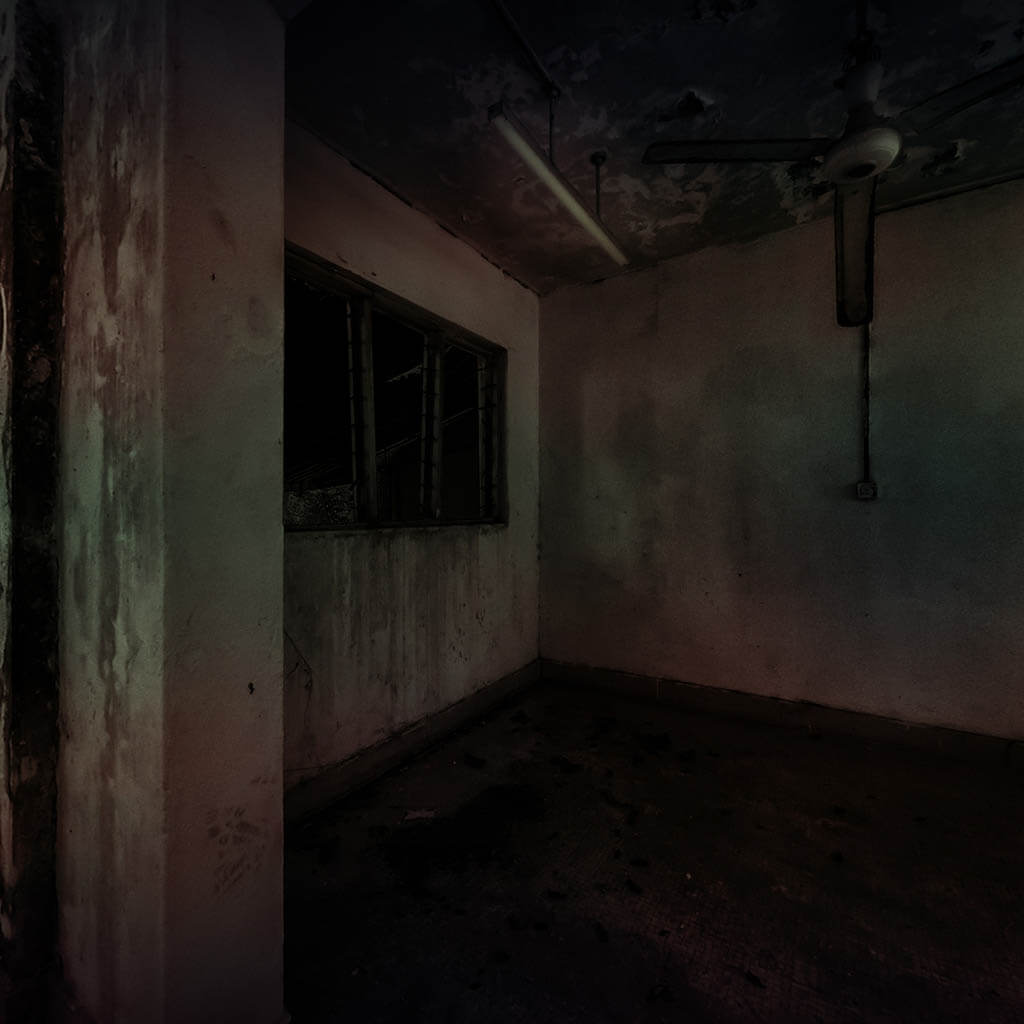
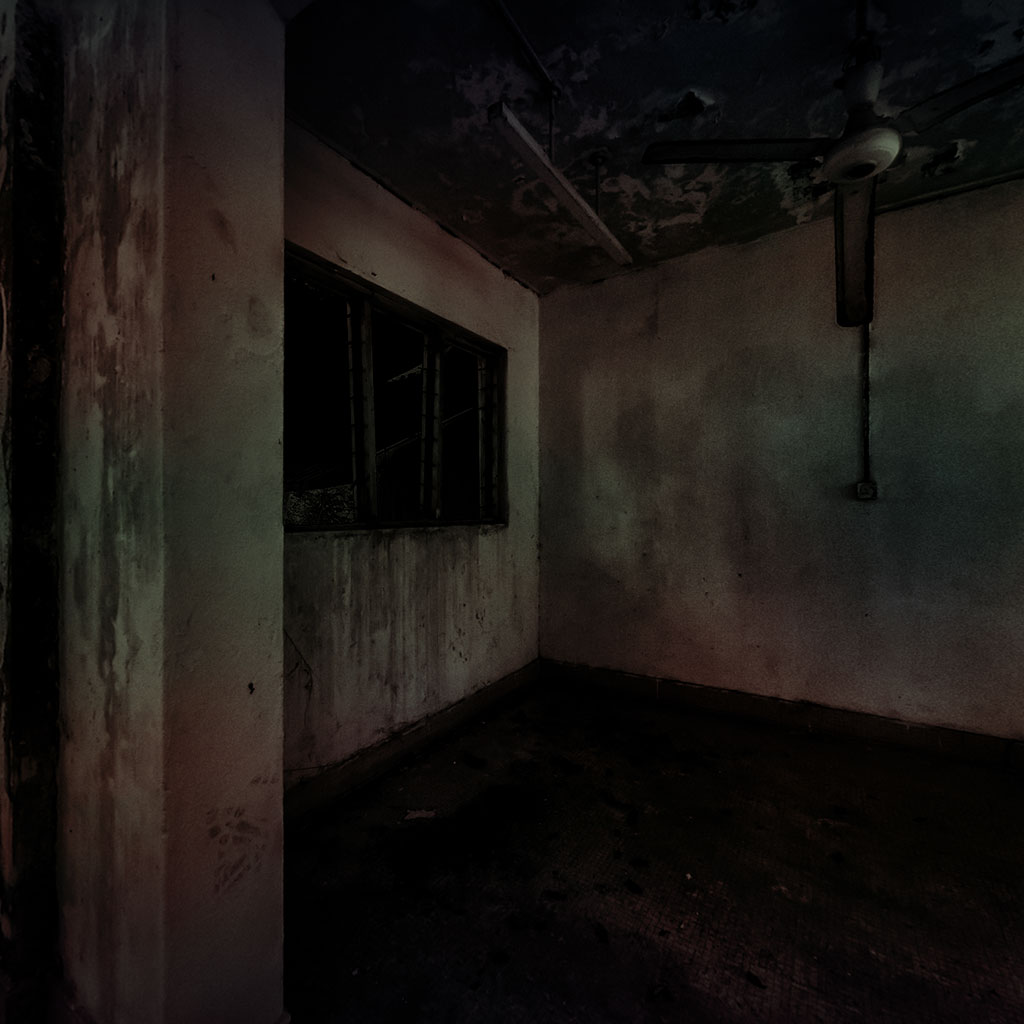
wip

Changed region(s): [[0.4688, 0.0938, 0.625, 0.25], [0.0, 0.2812, 0.0312, 0.625], [0.0, 0.6875, 0.0312, 0.8125]]

diff --git a/index.js b/index.js
@@ -119,6 +119,23 @@
         });
         */
 
+        // Create Props hotspots.
+        if( sceneData.propHotspots !== undefined ) {
+          sceneData.propHotspots.forEach(function(hotspot) {
+            var element = createPropHotspotsElement(hotspot);
+            marzipanoScene.hotspotContainer().createHotspot(element,
+              { yaw: hotspot.yaw, pitch: hotspot.pitch },
+              {
+                perspective:
+                {
+                  radius: hotspot.radius,
+                  extraRotations: hotspot.extraRotations
+                }
+              }
+            );
+          });
+        }
+
         return {
             data: sceneData,
             marzipanoObject: marzipanoScene
@@ -196,6 +213,11 @@
         activeScene = scene;
 
         var timeoutID;
+
+        if (scene.data.id == '0-scene-1' ) {
+          $('.prop-hotspot-light').addClass('active');
+
+        }
 
         if (scene.data.id == '0-scene-2' && !shownScare) {
           timeoutID = window.setTimeout(function(){
@@ -395,6 +417,31 @@
         stopTouchAndScrollEventPropagation(wrapper);
         console.log( wrapper );
         return wrapper;
+    }
+
+    function createPropHotspotsElement(hotspot) {
+
+      // Create wrapper element to hold icon and hotspot_link_info.
+      var wrapper = document.createElement('div');
+      wrapper.className += 'hotspot prop-hotspot-light';
+
+      var prop = document.createElement('div');
+      prop.className += 'prop-inner';
+      prop.style.backgroundImage = "url('" + hotspot.path + "')";
+      prop.style.width = hotspot.width+"px";
+      prop.style.height = hotspot.height+"px";
+
+      var dataFrames = document.createAttribute('data-frames');
+      dataFrames.value = hotspot.frames;
+      wrapper.setAttributeNode(dataFrames);
+
+      // Prevent touch and scroll events from reaching the parent element.
+      // This prevents the view control logic from interfering with the hotspot.
+      stopTouchAndScrollEventPropagation(wrapper);
+
+      wrapper.appendChild(prop);
+
+      return wrapper;
     }
 
     // Prevent touch and scroll events from reaching the parent element.

diff --git a/styles/main.css b/styles/main.css
@@ -635,6 +635,8 @@ h6 {
   transform: translate(-50%, -50%);
 
   text-align: center;
+
+  overflow: hidden;
 }
 
 .emf__container > li {
@@ -702,7 +704,8 @@ h6 {
 .emf__container.is-region-3 > li.emf__4,
 .emf__container.is-region-4 > li.emf__3,
 .emf__container.is-region-5 > li.emf__2 {
-  animation: flicker .8s steps(1) infinite;
+          animation: flicker .8s steps(1) infinite;
+  -webkit-animation: flicker .8s steps(1) infinite;
 }
 
 @keyframes flicker {
@@ -831,4 +834,39 @@ h6 {
   background-image: url('../img/scare.png');
   background-size: cover;
   background-position: 0 0;
+}
+
+
+/*
+  scene 1 - lighting props
+*/
+.prop-hotspot-light.active > .prop-inner {
+  background-position: 0 0;
+  animation: prop_light_flickers 0.5s steps(1) infinite;
+}
+
+@keyframes prop_light_flickers {
+  0% {
+    background-position: 0 0;
+  }
+  2% {
+    background-position: -296px 0;
+  }
+  60% {
+    background-position: 0 0;
+  }
+
+}
+
+@-webkit-keyframes prop_light_flickers {
+  0% {
+    background-position: 0 0;
+  }
+  2% {
+    background-position: -296px 0;
+  }
+  60% {
+    background-position: 0 0;
+  }
+
 }

diff --git a/game.js b/game.js
@@ -176,12 +176,6 @@ var viewChangeThrottled = throttle(function() {
 
   var activeSceneIdx = activeSceneList.indexOf(activeScene.data.id);
 
-  // Transform the hotspot coordinates into screen coordinates.
-  var screen = activeScene.marzipanoObject.view().coordinatesToScreen({
-      yaw: tempHotspots[activeSceneIdx].position().yaw,
-      pitch: tempHotspots[activeSceneIdx].position().pitch
-  });
-
   var panningX = (activeScene.marzipanoObject.view().yaw()).toFixed(2);
   var hotspotX = tempHotspots[activeSceneIdx].position().yaw;
 

diff --git a/data.js b/data.js
@@ -22,6 +22,17 @@ var APP_DATA = {
             "rotation": 0,
             "target": "0-scene-2"
         }],
+        "propHotspots": [{
+            "path": "img/scene-0-props/scene1_b_light.png",
+            "width": "296",
+            "height": "251",
+            "frames": "8",
+            "yaw": 2.69,
+            "pitch": -0.55,
+            "radius": 650
+            , "extraRotations": "rotate(-9deg)"
+
+        }]
     }, {
         "id": "0-scene-2",
         "name": "Scene 2",
